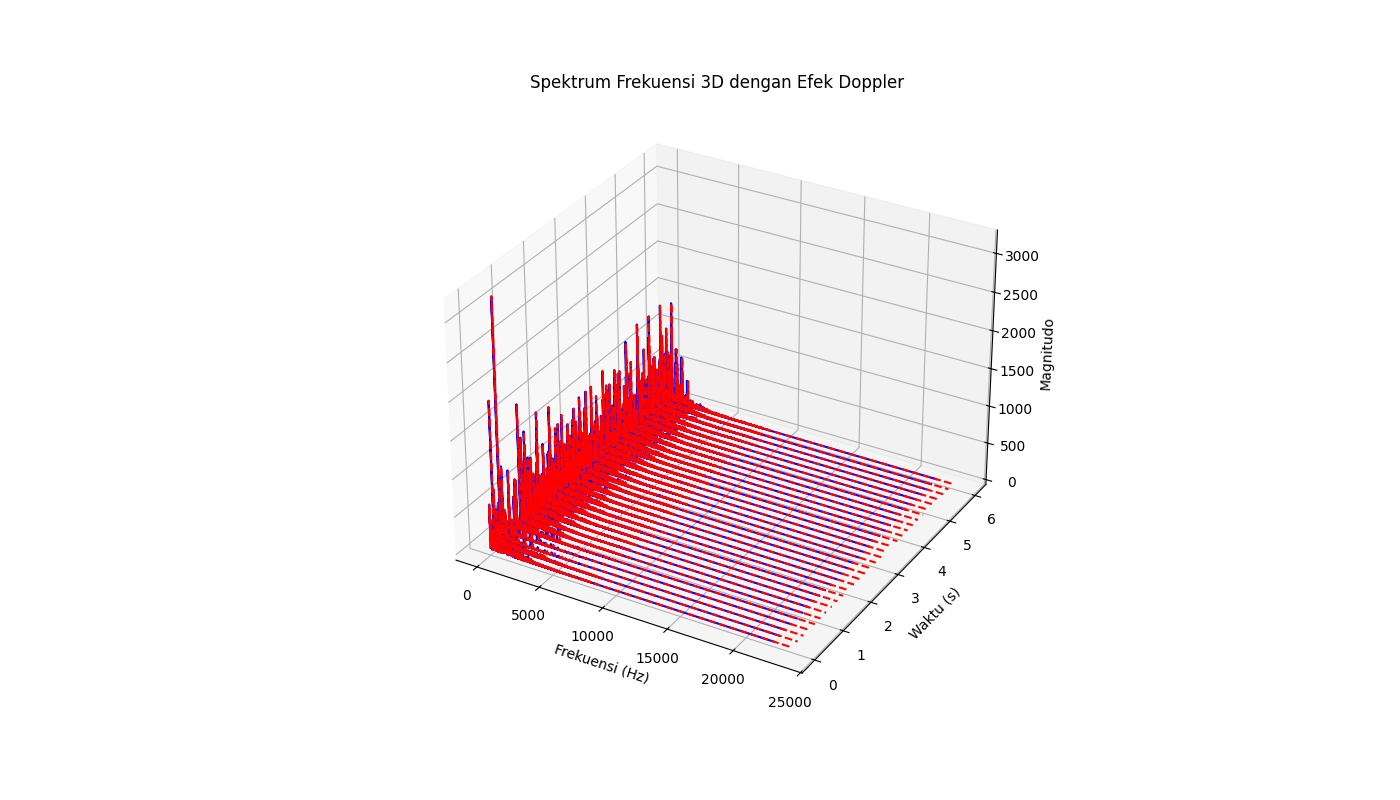
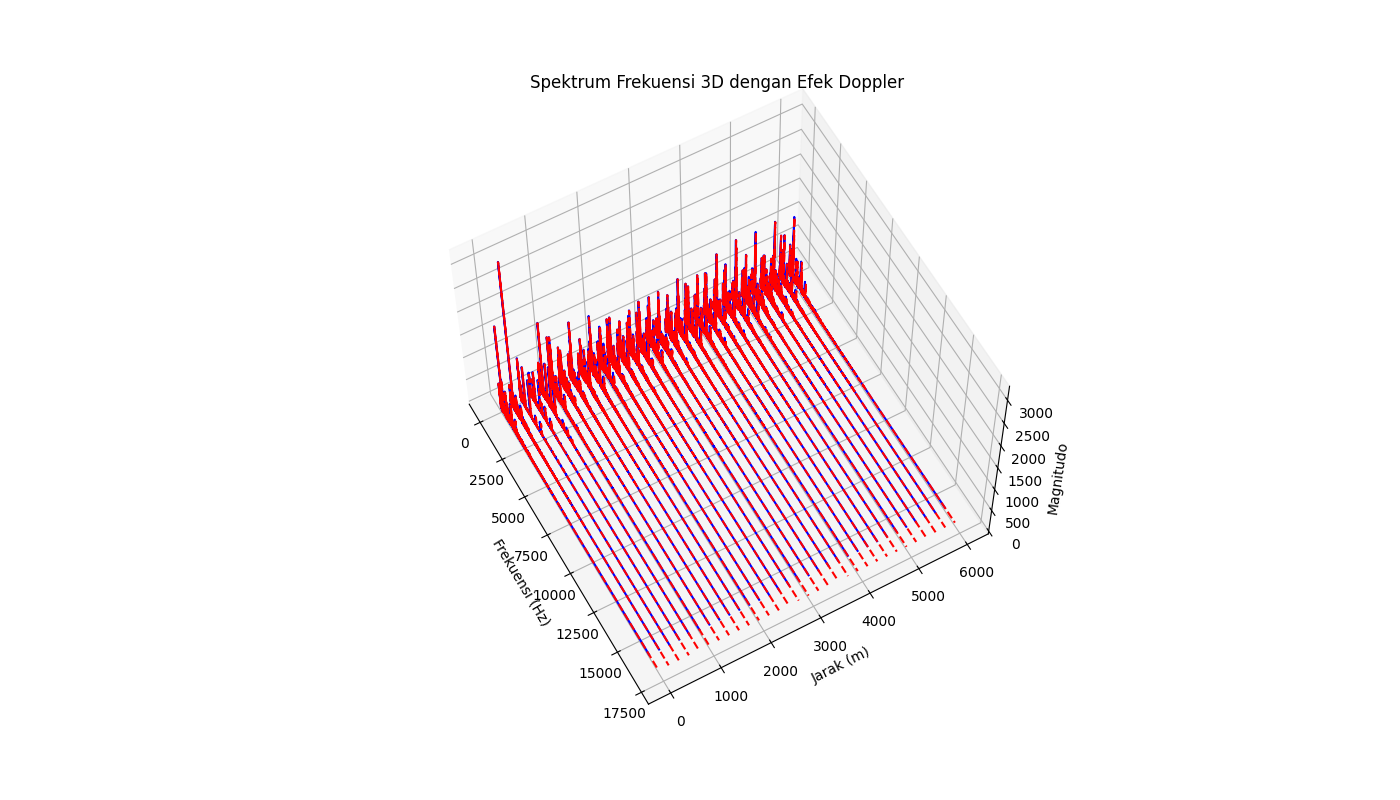
Master

Changed region(s): [[0.3071, 0.125, 0.7679, 0.9062], [0.7064, 0.3125, 0.7371, 0.375], [0.4607, 0.1875, 0.4914, 0.2188]]

diff --git a/libs/__main__.py b/libs/__main__.py
@@ -70,8 +70,11 @@ class AudioAnalyzer:
         print(f"Hasil analisis telah disimpan ke '{filename}'")
 
 class Plotter:
-    def __init__(self, fft_segments):
+    def __init__(self, fft_segments, max_frequency=16000, speed_of_sound=343.0):
         self.fft_segments = fft_segments
+        self.max_frequency = max_frequency
+        self.speed_of_sound = speed_of_sound
+        self.time_interval = 200 / speed_of_sound  # Time interval corresponding to 200 meters
 
     def plot_spectrum(self):
         plt.figure(figsize=(12, 6))
@@ -97,13 +100,20 @@ class Plotter:
         ax = fig.add_subplot(111, projection='3d')
 
         for i, (xf, yf_magnitude, xf_doppler) in enumerate(self.fft_segments):
-            ax.plot(xf, np.full_like(xf, i * 0.2), yf_magnitude, color='b')
-            ax.plot(xf_doppler, np.full_like(xf_doppler, i * 0.2), yf_magnitude, color='r', linestyle='--')
+            # Filter frequencies above the max_frequency
+            mask = xf <= self.max_frequency
+            xf = xf[mask]
+            yf_magnitude = yf_magnitude[mask]
+            xf_doppler = xf_doppler[mask]
+
+            distance_interval = i * 200  # each segment is 200 meters apart
+
+            ax.plot(xf, np.full_like(xf, distance_interval), yf_magnitude, color='b')
+            ax.plot(xf_doppler, np.full_like(xf_doppler, distance_interval), yf_magnitude, color='r', linestyle='--')
 
         ax.set_xlabel('Frekuensi (Hz)')
-        ax.set_ylabel('Waktu (s)')
+        ax.set_ylabel('Jarak (m)')
         ax.set_zlabel('Magnitudo')
         ax.set_title('Spektrum Frekuensi 3D dengan Efek Doppler')
 
         plt.show()
-
